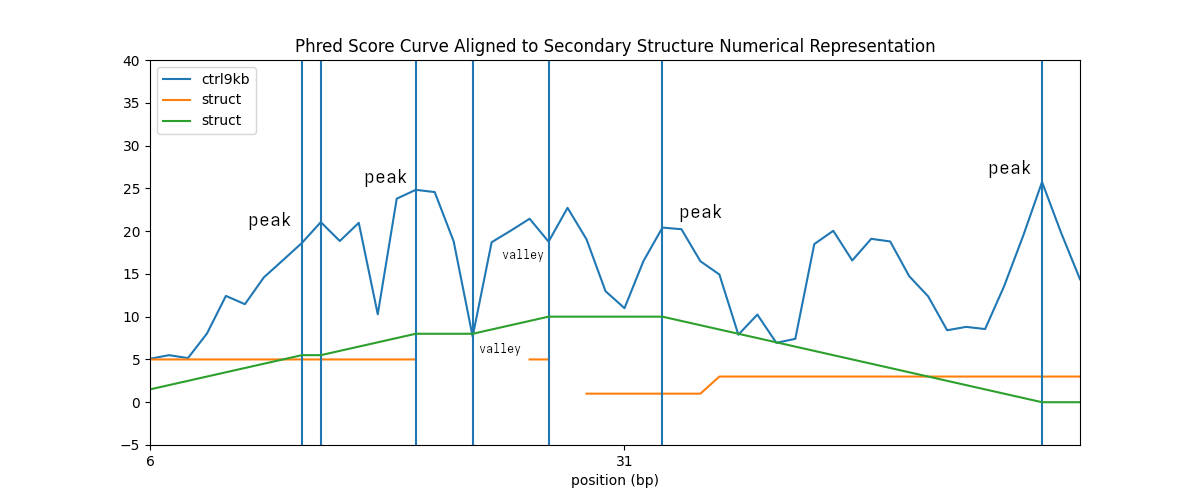
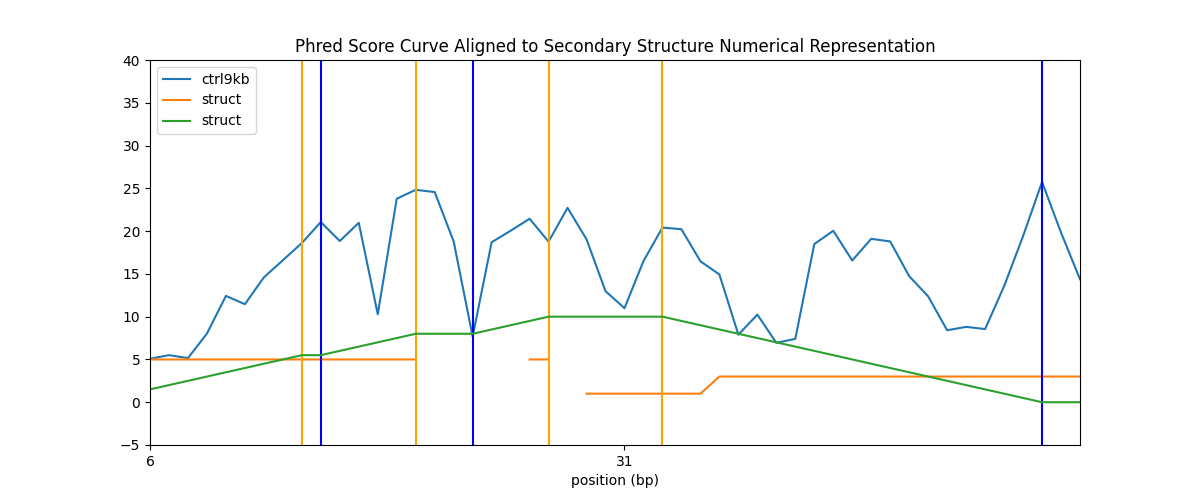
Implementing average analysis

diff --git a/main.py b/main.py
@@ -1,18 +1,57 @@
+import matplotlib.pyplot as plt
 import pandas as pd
 import plotting
 import filtering
+import averaging
+
+labeling_df = pd.read_csv("./data/secondary_structure/hairpin_labeling.csv")
+structure_curve = labeling_df.iloc[0, 2:]
+structure_diff = structure_curve.diff()
+# jerk_points = plotting.series_jerk(label_curve)
+# jerk_points = jerk_points[jerk_points != 0]
+# points = list(map(lambda x: int(x), jerk_points.index))
 
 ctrl_phred_df = pd.read_csv("./data/ctrl9kb/ctrl9kb-phred.csv")
+phred = ctrl_phred_df.mean().iloc[1:]
+
 # ctrl_dwell_df = pd.read_csv("./data/ctrl9kb/ctrl9kb-dwell-times.csv")
 # trizol_phred_df = pd.read_csv("./data/trizol-old/trizol_phred_df.csv")
 # trizol_dwell_df = pd.read_csv("./data/trizol-old/trizol-dwell-times.csv")
 # dna_phred_df = pd.read_csv("./data/dna/dna_phred_df.csv")
 # dna_dwell_df = pd.read_csv("./data/dna/dna_dwell_times.csv")
+
 secondary_structure_df = pd.read_csv("./data/secondary_structure/secondary_structure.csv")
 struct = secondary_structure_df.iloc[0, 2:]
 sites = plotting.get_sites(struct)
 
-labeling_df = pd.read_csv("./data/secondary_structure/hairpin_labeling.csv")
+def get_site_loop(i):
+    _, loop = averaging.parse_loop(structure_diff, i)
+    return loop
+
+site_loops = list(map(lambda s: get_site_loop(s[0]), sites))
+
+windows = averaging.get_windows_from_loops(phred, site_loops, 30, 30)
+curve = windows.mean().values / phred.mean()
+
+fig, ax = plt.subplots(figsize=(12,5))
+
+# for p in points[0:10]:
+#     # df = averaging.get_windows(sequence, points, -10, 10)
+#     window = averaging.safe_get_window(sequence, p - 10, p + 10)
+
+#     fig, ax = plt.subplots(figsize=(12,5))
+
+ax.plot(list(range(-30, 31)), curve)
+
+# ax.set_xticks(np.arange(beginning_pos, ending_pos, 25))
+# ax.set_xticklabels(np.arange(beginning_pos, ending_pos, 25))
+ax.set_xlabel('position (bp)')
+# ax.set_xlim((beginning_pos, ending_pos))
+# ax.set_ylim((0, 40))
+
+ax.set_title("Dr. Kim Analysis")
+fig.savefig(f"./dr-kim-analysis.png")
+plt.close(fig)
 
 # sequence = pd.read_csv("./data/sequence.csv")
 
@@ -20,25 +59,25 @@ labeling_df = pd.read_csv("./data/secondary_structure/hairpin_labeling.csv")
 # avg_phred_per_kmer_df.set_index(avg_phred_per_kmer_df.columns[0], inplace=True)
 # kmer_dict = dict(zip(avg_phred_per_kmer_df.index.values, avg_phred_per_kmer_df.iloc[:, 0].values))
 
-for i, j in sites:
-    ctrl_phred_curve = plotting.get_curve(ctrl_phred_df, i, j, name="ctrl9kb", method="average")
-    # ctrl_phred_stddev_curve = plotting.get_curve(ctrl_phred_df, i, j, name="ctrl9kb-stddev", method="stddev")
+# for i, j in sites:
+#     ctrl_phred_curve = plotting.get_curve(ctrl_phred_df, i, j, name="ctrl9kb", method="average")
+#     # ctrl_phred_stddev_curve = plotting.get_curve(ctrl_phred_df, i, j, name="ctrl9kb-stddev", method="stddev")
 
-    # normalized_ctrl_phred_curve = filtering.normalize_by_kmer(ctrl_phred_curve, sequence, kmer_dict)
-    # normalized_ctrl_phred_curve.name = "normalized"
-    structure_curve = plotting.get_curve(secondary_structure_df, i, j, name="struct", method="average")
-    label_curve = plotting.get_curve(labeling_df, i, j, name="struct", method="average")
+#     # normalized_ctrl_phred_curve = filtering.normalize_by_kmer(ctrl_phred_curve, sequence, kmer_dict)
+#     # normalized_ctrl_phred_curve.name = "normalized"
+#     structure_curve = plotting.get_curve(secondary_structure_df, i, j, name="struct", method="average")
+#     label_curve = plotting.get_curve(labeling_df, i, j, name="struct", method="average")
 
-    plotting.custom_plot_curves([ctrl_phred_curve,
-                                 structure_curve,
-                                 label_curve],
+#     plotting.custom_plot_curves([ctrl_phred_curve,
+#                                  structure_curve,
+#                                  label_curve],
 
-                                [plotting.add_curve,
-                                 plotting.add_curve,
-                                 plotting.add_label_curve],
+#                                 [plotting.add_curve,
+#                                  plotting.add_curve,
+#                                  plotting.add_label_curve],
 
-                                title="Phred Score Curve Aligned to Secondary Structure Numerical Representation",
-                                output_file=f"plots/{i}-{j}.png")
+#                                 title="Phred Score Curve Aligned to Secondary Structure Numerical Representation",
+#                                 output_file=f"plots/{i}-{j}.png")
 
 # TAR-PBS site (positions 1 to 430)
 # See Fig.3 https://journals.plos.org/ploscompbiol/article?id=10.1371/journal.pcbi.1004230

diff --git a/averaging.py b/averaging.py
@@ -1,0 +1,123 @@
+import numpy as np
+import pandas as pd
+import plotting
+
+###############################################################################
+#                               generic analysis                              #
+###############################################################################
+
+def safe_get_window(s, a, b):
+    window = np.full(b - a, np.nan)
+
+    start = max(a, 0)
+    end = min(len(s), b)
+
+    for i in range(start, end):
+        window[i - a] = s.iloc[i]
+
+    return window
+
+def get_windows(sequence, points, window_min, window_max):
+
+    windows = []
+
+    for p in points:
+        window = safe_get_window(sequence, p + window_min, p + window_max)
+        windows.append(window)
+
+    return pd.DataFrame(windows, columns=list(range(window_min, window_max)))
+
+###############################################################################
+#                              dr kim's analysis                              #
+###############################################################################
+
+# every bound is exclusive
+
+def parse_until_positive(s, i):
+    while not s.iloc[i] > 0:
+        i += 1
+
+        if i >= len(s) - 1:
+            break
+
+    return i
+
+def parse_until_negative(s, i):
+    while not s.iloc[i] < 0:
+        i += 1
+
+        if i >= len(s) - 1:
+            break
+
+    return i
+
+def parse_backward_until_positive(s, i):
+    while not s.iloc[i] > 0:
+        i -= 1
+
+        if i <= 0:
+            break
+
+    return i + 1
+
+def parse_loop(s, i):
+    end = parse_until_negative(s, i)
+    start = parse_backward_until_positive(s, end)
+
+    i = end
+
+    return i, (start, end)
+
+def get_loops(s):
+    i = 0
+
+    loops = []
+
+    while i < len(s) - 1:
+        i, loop = parse_loop(s, i)
+        loops.append(loop)
+        i = parse_until_positive(s, i)
+
+    return loops
+
+# a < loop[0], loop[1] < b
+
+def safe_get_loop_window(s, a, loop, b):
+    loop_start = loop[0]
+    loop_end = loop[1]
+    loop_length = loop_end - loop_start
+    window_length = b - a - loop_length + 1
+    window = np.full(window_length, np.nan)
+
+    start = max(a, 0)
+    end = min(len(s), b)
+
+    # left side
+    for i in range(start, loop_start):
+        window[i - a] = s.iloc[i]
+
+    # loop
+    avg = s.iloc[loop_start:loop_end].mean()
+    window[loop_start - a] = avg
+
+    # right side
+    for i in range(loop_end, end):
+        window[i - loop_length - a + 1] = s.iloc[i]
+
+    return window
+
+def get_windows_from_loops(sequence, loops, left_length, right_length):
+    windows = []
+
+    for loop in loops:
+        a = loop[0] - left_length
+        b = loop[1] + right_length
+
+        window = safe_get_loop_window(sequence, a, loop, b)
+        windows.append(window)
+
+    return pd.DataFrame(windows, columns=list(range(-left_length, right_length + 1)))
+
+def get_windows_from_structure(sequence, structure, left_length, right_length):
+    loops = get_loops(structure.diff())
+    return get_windows_from_loops(sequence, loops, left_length, right_length)

diff --git a/plotting.py b/plotting.py
@@ -229,15 +229,17 @@ def get_sites(s):
 #                                 label curve                                 #
 ###############################################################################
 
-def series_jerk_points(s):
-    return s.diff().diff().abs() > 0
+def series_jerk(s):
+    return s.diff().diff()
 
 def add_label_curve(ax, curve):
-    s = series_jerk_points(curve)
+    s = series_jerk(curve)
 
     for i, v in s.iteritems():
-        if v:
-            ax.axvline(x = i - 1)
+        if v > 0:
+            ax.axvline(x = i - 1, c="blue")
+        elif v < 0:
+            ax.axvline(x = i - 1, c="orange")
 
     curve.plot(ax = ax, legend = True, label = curve.name)
 
